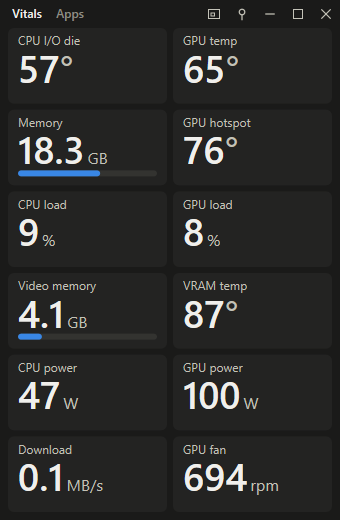
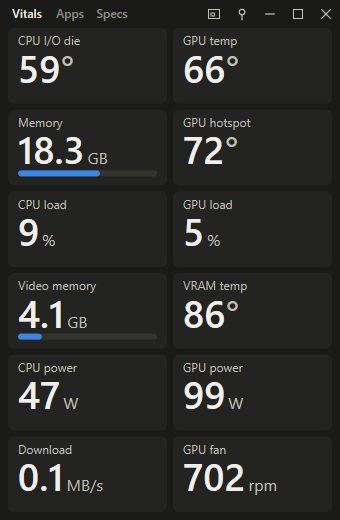
Retake the README screenshots for 0.4.0
The Specs tab added in 0.4.0 changed the title bar, so every picture
that shows it was out of date. Also update the exe size and running
cost, measured on 0.4.0.

diff --git a/README.md b/README.md
@@ -1,13 +1,13 @@
 # 🩺 Vitals
 
-A tiny, fully resizable sensor monitor for Windows, written in Rust. One exe of about 500 KB, with nothing to install.
+A tiny, fully resizable sensor monitor for Windows, written in Rust. One exe of about 590 KB, with nothing to install.
 
 <p align="center">
   <img src="docs/images/default.png" width="340" alt="Vitals at its default size: twelve tiles showing temperatures, memory, load and power, each with a live history line">
   <img src="docs/images/busy.png" width="340" alt="Vitals with the Busy list showing: a red row for a frozen app with an End button, and a row for an app using 37% of the CPU">
 </p>
 
-<p align="center"><sub>Screenshots use sample values.</sub></p>
+<p align="center"><sub>Sensor screenshots use sample values.</sub></p>
 
 ## ⬇ Download
 
@@ -28,7 +28,7 @@ A tiny, fully resizable sensor monitor for Windows, written in Rust. One exe of 
 - 🎚 **Simple or Advanced:** Simple shows just the numbers. Advanced adds peaks, 2-minute averages and history.
 - 📌 **Pin:** keeps the window on top. Position, size and pin state are remembered.
 - 🌗 **Themes:** light and dark, following Windows
-- 🪶 **Light:** about 1% of one CPU thread and 36 MB of memory at the default size
+- 🪶 **Light:** under 1% of one CPU thread and about 37 MB of memory at the default size
 
 <details>
 <summary>🌡 Temperature limits</summary>
